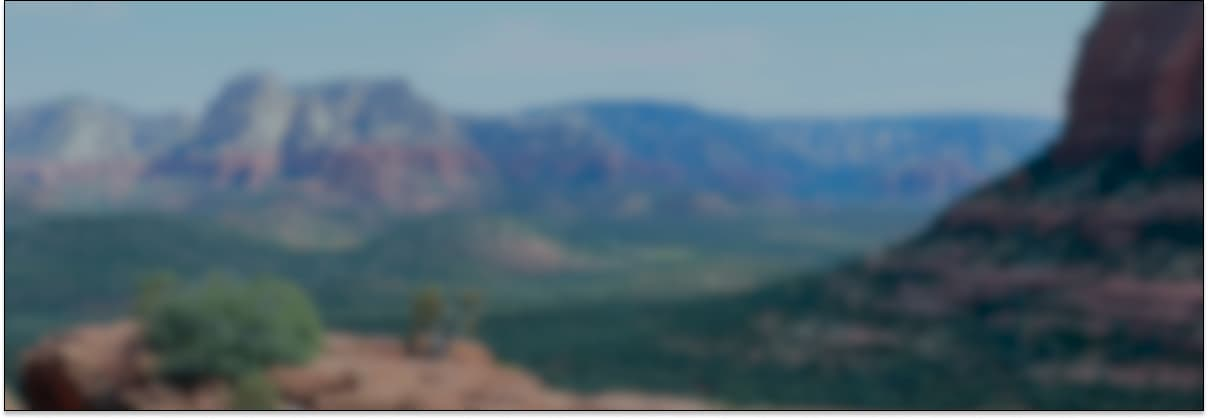
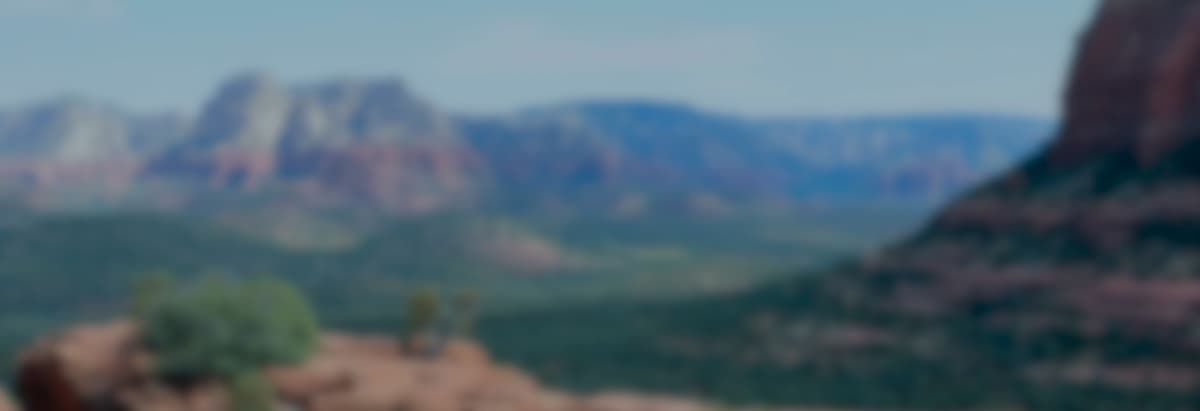
Добавляет правильную картинку subscription background

diff --git a/styles/style.css b/styles/style.css
@@ -189,7 +189,7 @@ body {
   background-color: #333333;
   color: #FFFFFF;
   background-image: url("/images/subscription-background.jpg");
-  background-size: 100% auto;
+  background-size: 100% 100%;
   background-repeat: no-repeat;
   text-align: center;
 }
